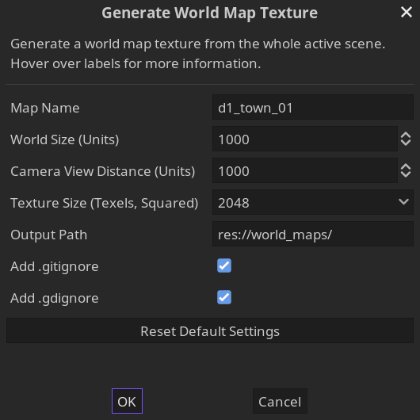
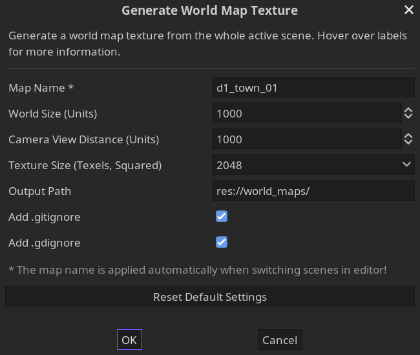
Changes for version v0.9.1. See CHANGELOG.md.

diff --git a/README.md b/README.md
@@ -8,9 +8,9 @@ This plugin is in a very early state. Please make sure to always backup your pro
 
 ## Installation
 1. Close Godot Editor if currently open.
-2. Move directory "bifractal-world-map-texture-gen-tool" to your project's **addons/** folder.
+2. Move directory **bifractal-world-map-texture-gen-tool** to your project's **addons/** folder.
 3. Re-open Godot Editor, open your project and go to the **Project Settings / Plugins** tab.
-4. Activate plugin by checking **Enable** for "World Map Texture Generation Tool".
+4. Activate plugin by checking **Enable** for **World Map Texture Generation Tool**.
 
 ## How-To
 1. Open any Spatial scene and look for the **Generate World Map** button in the upper toolbar.
@@ -34,9 +34,9 @@ If everything went fine, you can find the map texture inside the given output pa
 Since the texture is generated from a very high "altitude", the quality of meshes might be low due to low levels of detail. This issue may be fixed by using "tiled maps" in a future version. See [Future Versions](#future-versions) for more information.
 
 ## Known Issues
-No known issues yet. Always check the log for warnings. In doubt, re-open a scene or the editor completely and try again. Feel free to open an issue on GitHub if you run into any problems.
+No known issues yet. Always check the output log for warnings and errors. In doubt, re-open a scene or the editor completely and try again. Feel free to open an issue on GitHub if you run into any problems.
 
 ## Future Versions
-See TODO.md for detailed feature descriptions for future versions.
+See [TODO.md](TODO.md) for detailed feature descriptions for future versions.
 
 Thanks for using my software 💜

diff --git a/CHANGELOG.md b/CHANGELOG.md
@@ -1,4 +1,13 @@
 # World Map Texture Generation Tool - Changelog
 
-## Version 0.9.0 - Initial Version
+## Version v0.9.1
+### Changed
+* Use the current scene name as default map name.
+
+### Fixed
+* Improved error handling in general.
+* Set opened scene when enabling the plugin (before "scene_changed" signal is fired).
+* The selected item for the texture size is now determined by the index via string comparison when resetting default settings.
+
+## Version v0.9.0 - Initial Version
 Generate world map textures from the whole currently opened scene within the provided world size.

diff --git a/TODO.md b/TODO.md
@@ -1,6 +1,6 @@
 # World Map Texture Generation Tool - TODO
 
-## Version 1.0.0
+## Version v1.0.0
 * Ability to move the camera on the map's X/Y directions to only capture chunks.
 * Make the camera-to-map origin point moveable.
 * Generate multiple texture tiles with given size to achieve larger map sizes.
